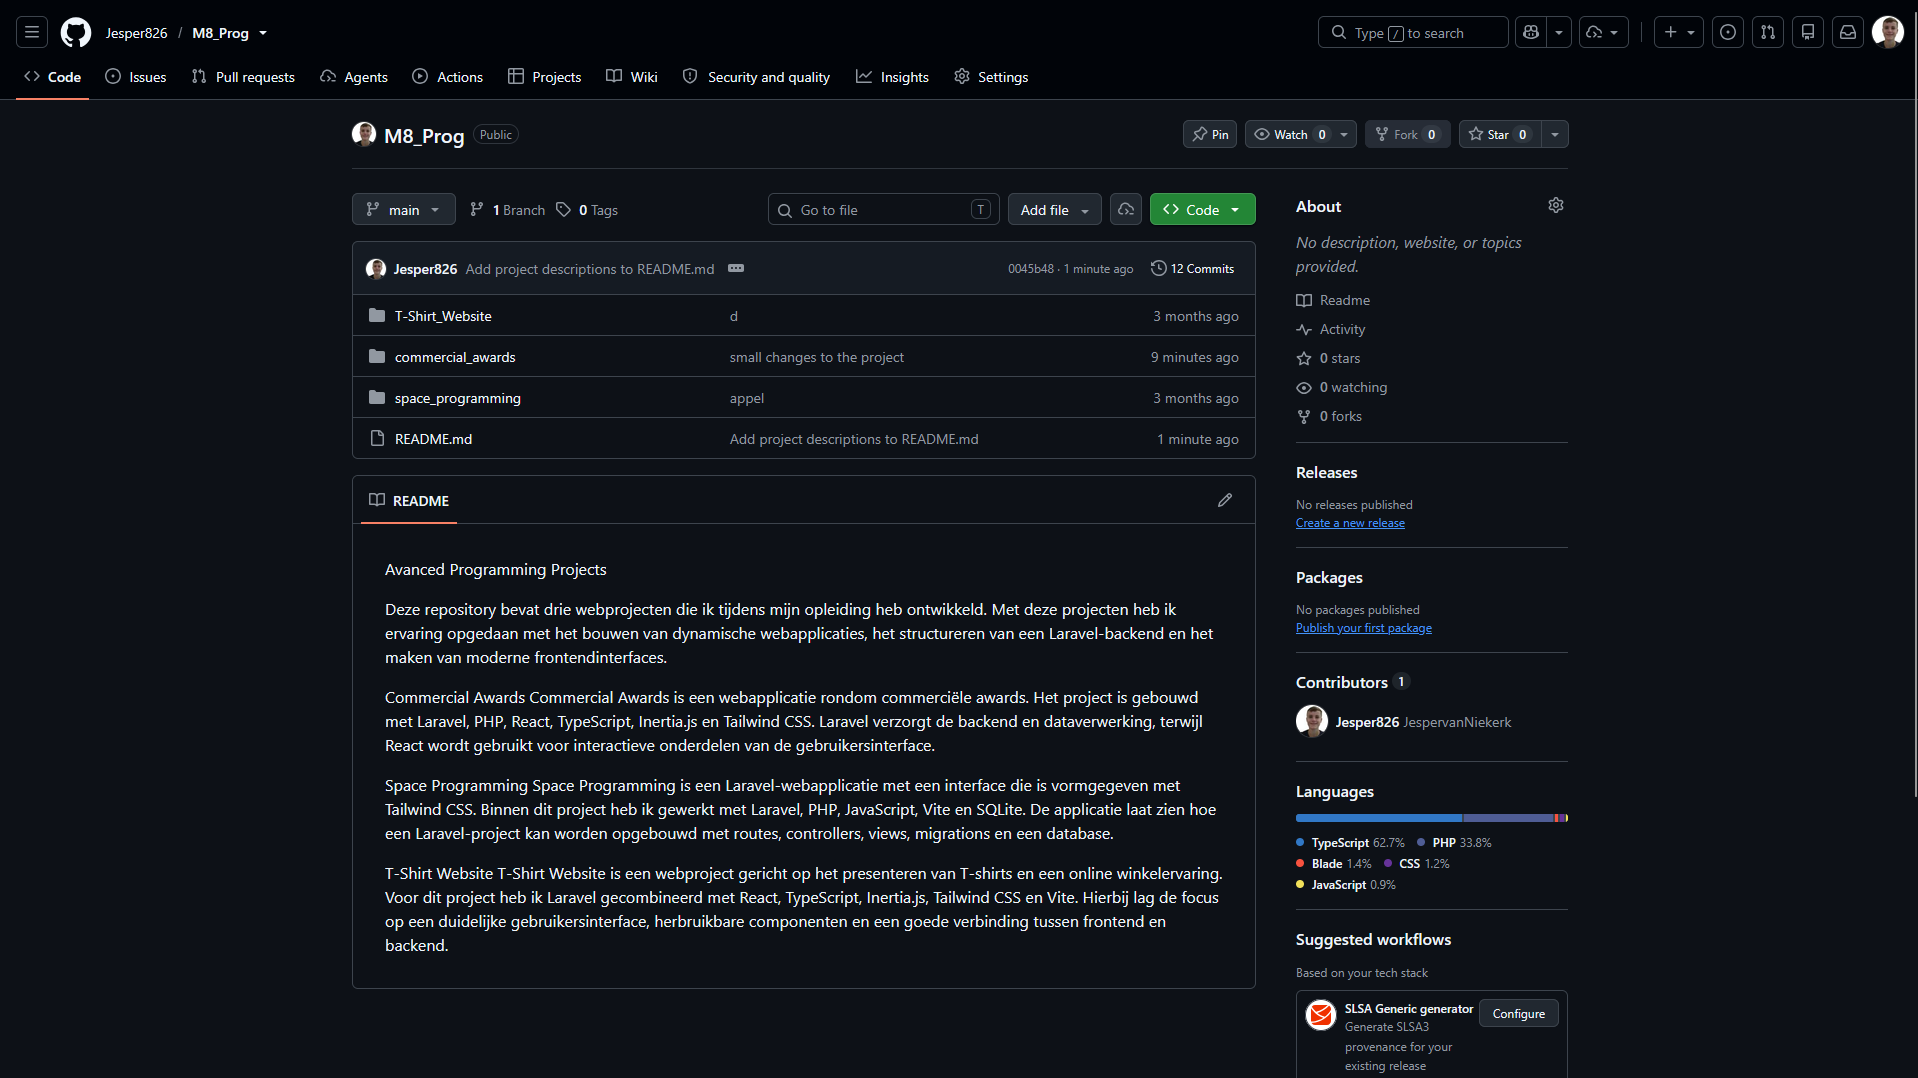
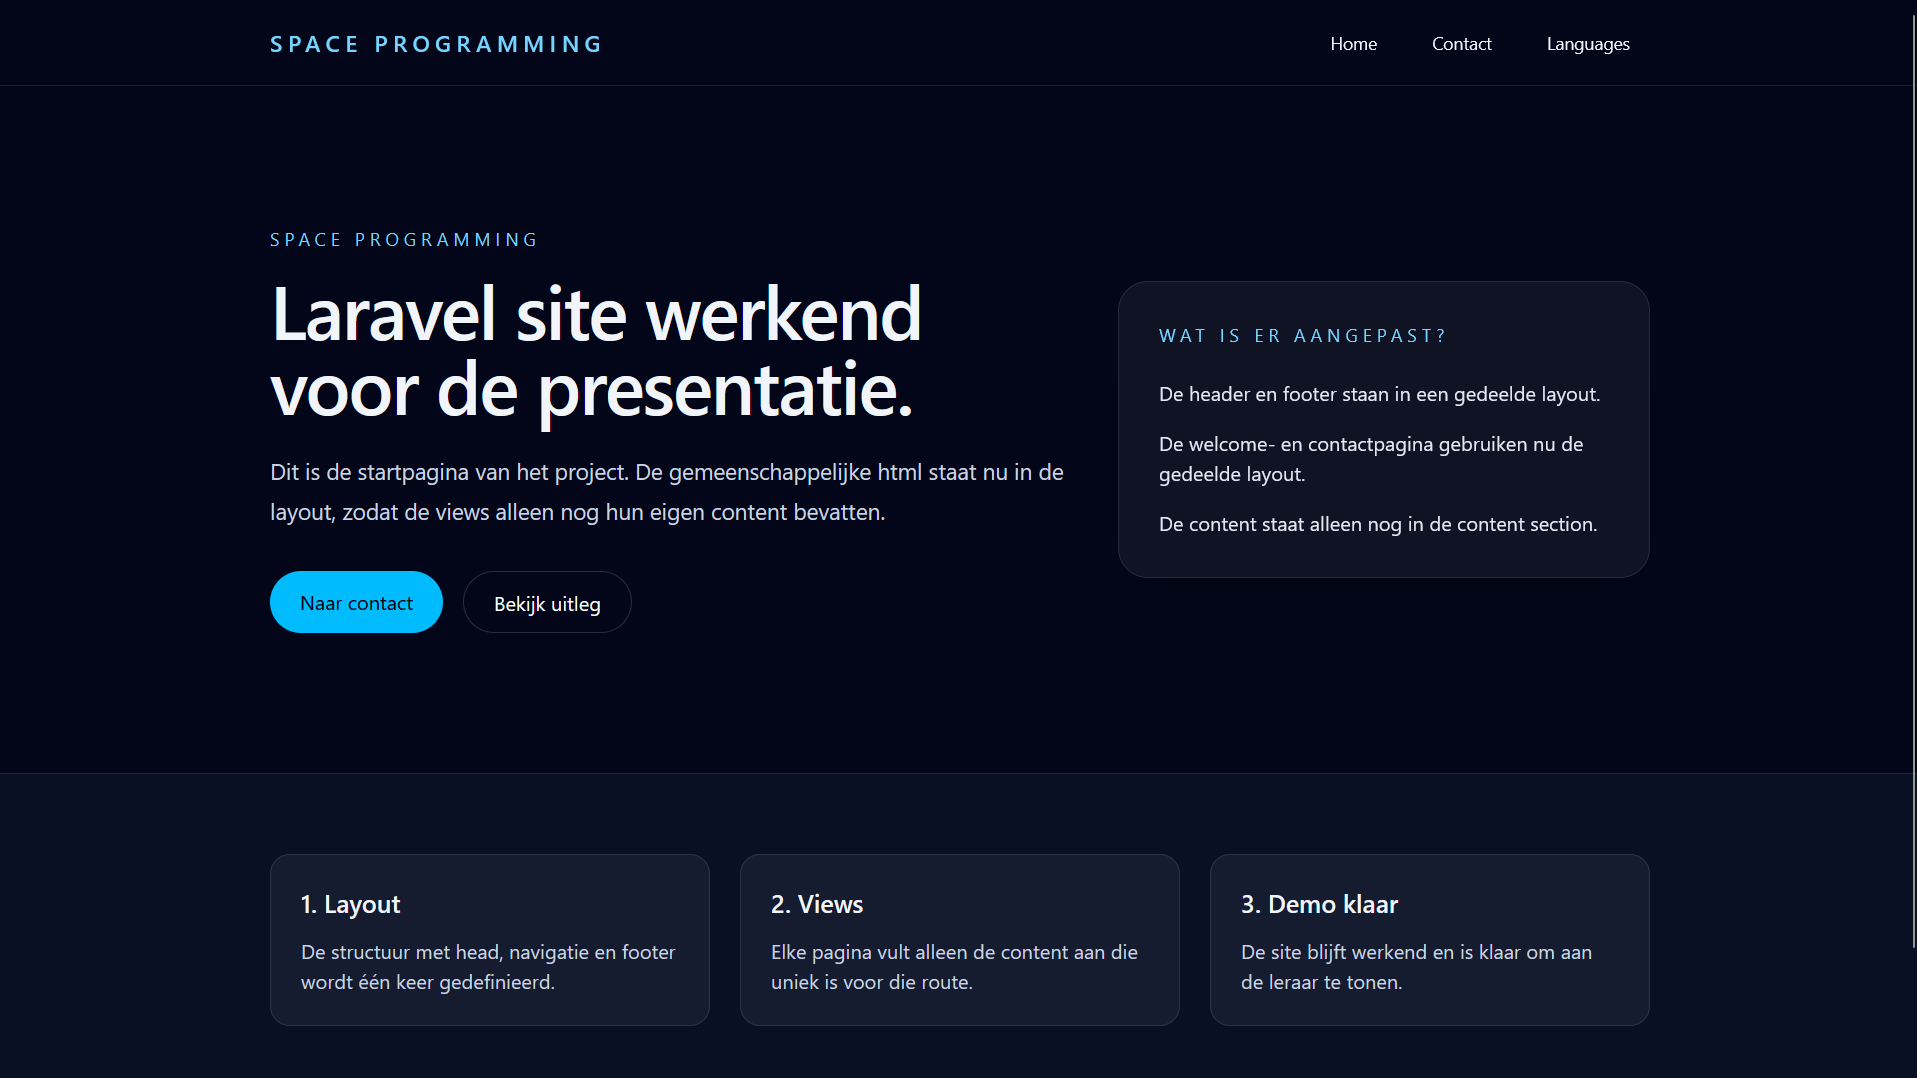
finale producten

diff --git a/portofolio-website/public_html/mijnus/css/01-over-mij.css b/portofolio-website/public_html/mijnus/css/01-over-mij.css
@@ -45,28 +45,14 @@ body.pagina-01-over-mij {
     background: var(--accent);
 }
 
-.portrait {
-    position: relative;
-    min-height: 480px;
-    background: #080808;
-    overflow: hidden;
-}
-
-.portrait img {
-    width: 100%;
-    height: 100%;
-    min-height: 480px;
+.profile-photo {
+    align-self: center;
+    width: min(100%, 500px);
+    transform: translateY(-40px);
+    aspect-ratio: 1;
+    border: 1px solid var(--line);
+    border-radius: 50%;
     object-fit: cover;
-    opacity: .8;
-}
-
-.portrait::after {
-    position: absolute;
-    right: 18px;
-    bottom: 8px;
-    color: var(--accent);
-    font: 7rem var(--display);
-    line-height: 1;
 }
 
 .project-list {
@@ -137,9 +123,10 @@ h3{
         padding: 60px 0;
     }
 
-    .portrait,
-    .portrait img {
-        min-height: 320px;
+    .profile-photo {
+        width: 100%;
+        max-width: none;
+        transform: none;
     }
 
     .project-feature {

diff --git a/portofolio-website/public_html/mijnus/hoofdstukken/03-projecten.php b/portofolio-website/public_html/mijnus/hoofdstukken/03-projecten.php
@@ -23,7 +23,7 @@
         </article>
 
         <article class="project">
-            <img class="project-image" src="<?php echo htmlspecialchars($theme_url, ENT_QUOTES, 'UTF-8'); ?>/images/Widgets.png" alt="Voorbeeldbeeld van de interactieve website">
+            <img class="project-image" src="<?php echo htmlspecialchars($theme_url, ENT_QUOTES, 'UTF-8'); ?>/images/widgets.png" alt="Voorbeeldbeeld van de interactieve website">
             <div class="project-content">
                 <span class="tag">HTML / CSS / JavaScript</span>
                 <h3>Javascript Widgets</h3>
@@ -108,7 +108,7 @@
                 <p>In dit project hebben we een website gemaakt waarin je de games van andere studenten kunt bekijken en spelen.</p>
                 <div class="project-links">
                     <a class="button" href="https://daanpronk.com/swe-nld/index.php" target="_blank" rel="noopener">Live Url <span>↗</span></a>
-                    <a class="button button-secondary" href="https://github.com/Jesper826/EcoNest" target="_blank" rel="noopener">GitHub <span>↗</span></a>
+                    <a class="button button-secondary" href="https://github.com/GitCommitt/Zweden-Project" target="_blank" rel="noopener">GitHub <span>↗</span></a>
                 </div>
             </div>
         </article>

diff --git a/portofolio-website/public_html/mijnus/hoofdstukken/01-over-mij.php b/portofolio-website/public_html/mijnus/hoofdstukken/01-over-mij.php
@@ -9,9 +9,7 @@
             <a class="button" href="<?php echo htmlspecialchars($theme_url, ENT_QUOTES, 'UTF-8'); ?>/hoofdstukken/03-projecten.php">Bekijk mijn werk <span>↗</span></a>
             <div class="home-meta">Software Developer · Web · Nederland</div>
         </div>
-        <figure class="portrait">
-            <img src="<?php echo htmlspecialchars($theme_url, ENT_QUOTES, 'UTF-8'); ?>/images/demofoto.png" alt="Abstract zwart demoportret">
-        </figure>
+        <img class="profile-photo" src="<?php echo htmlspecialchars($theme_url, ENT_QUOTES, 'UTF-8'); ?>/images/fotomezelf.png" alt="Portret van Jesper van Niekerk">
     </section>
     <section>
         <h5 class="eyebrow">Mijn favorieten projecten op een rijtje.</h3>
